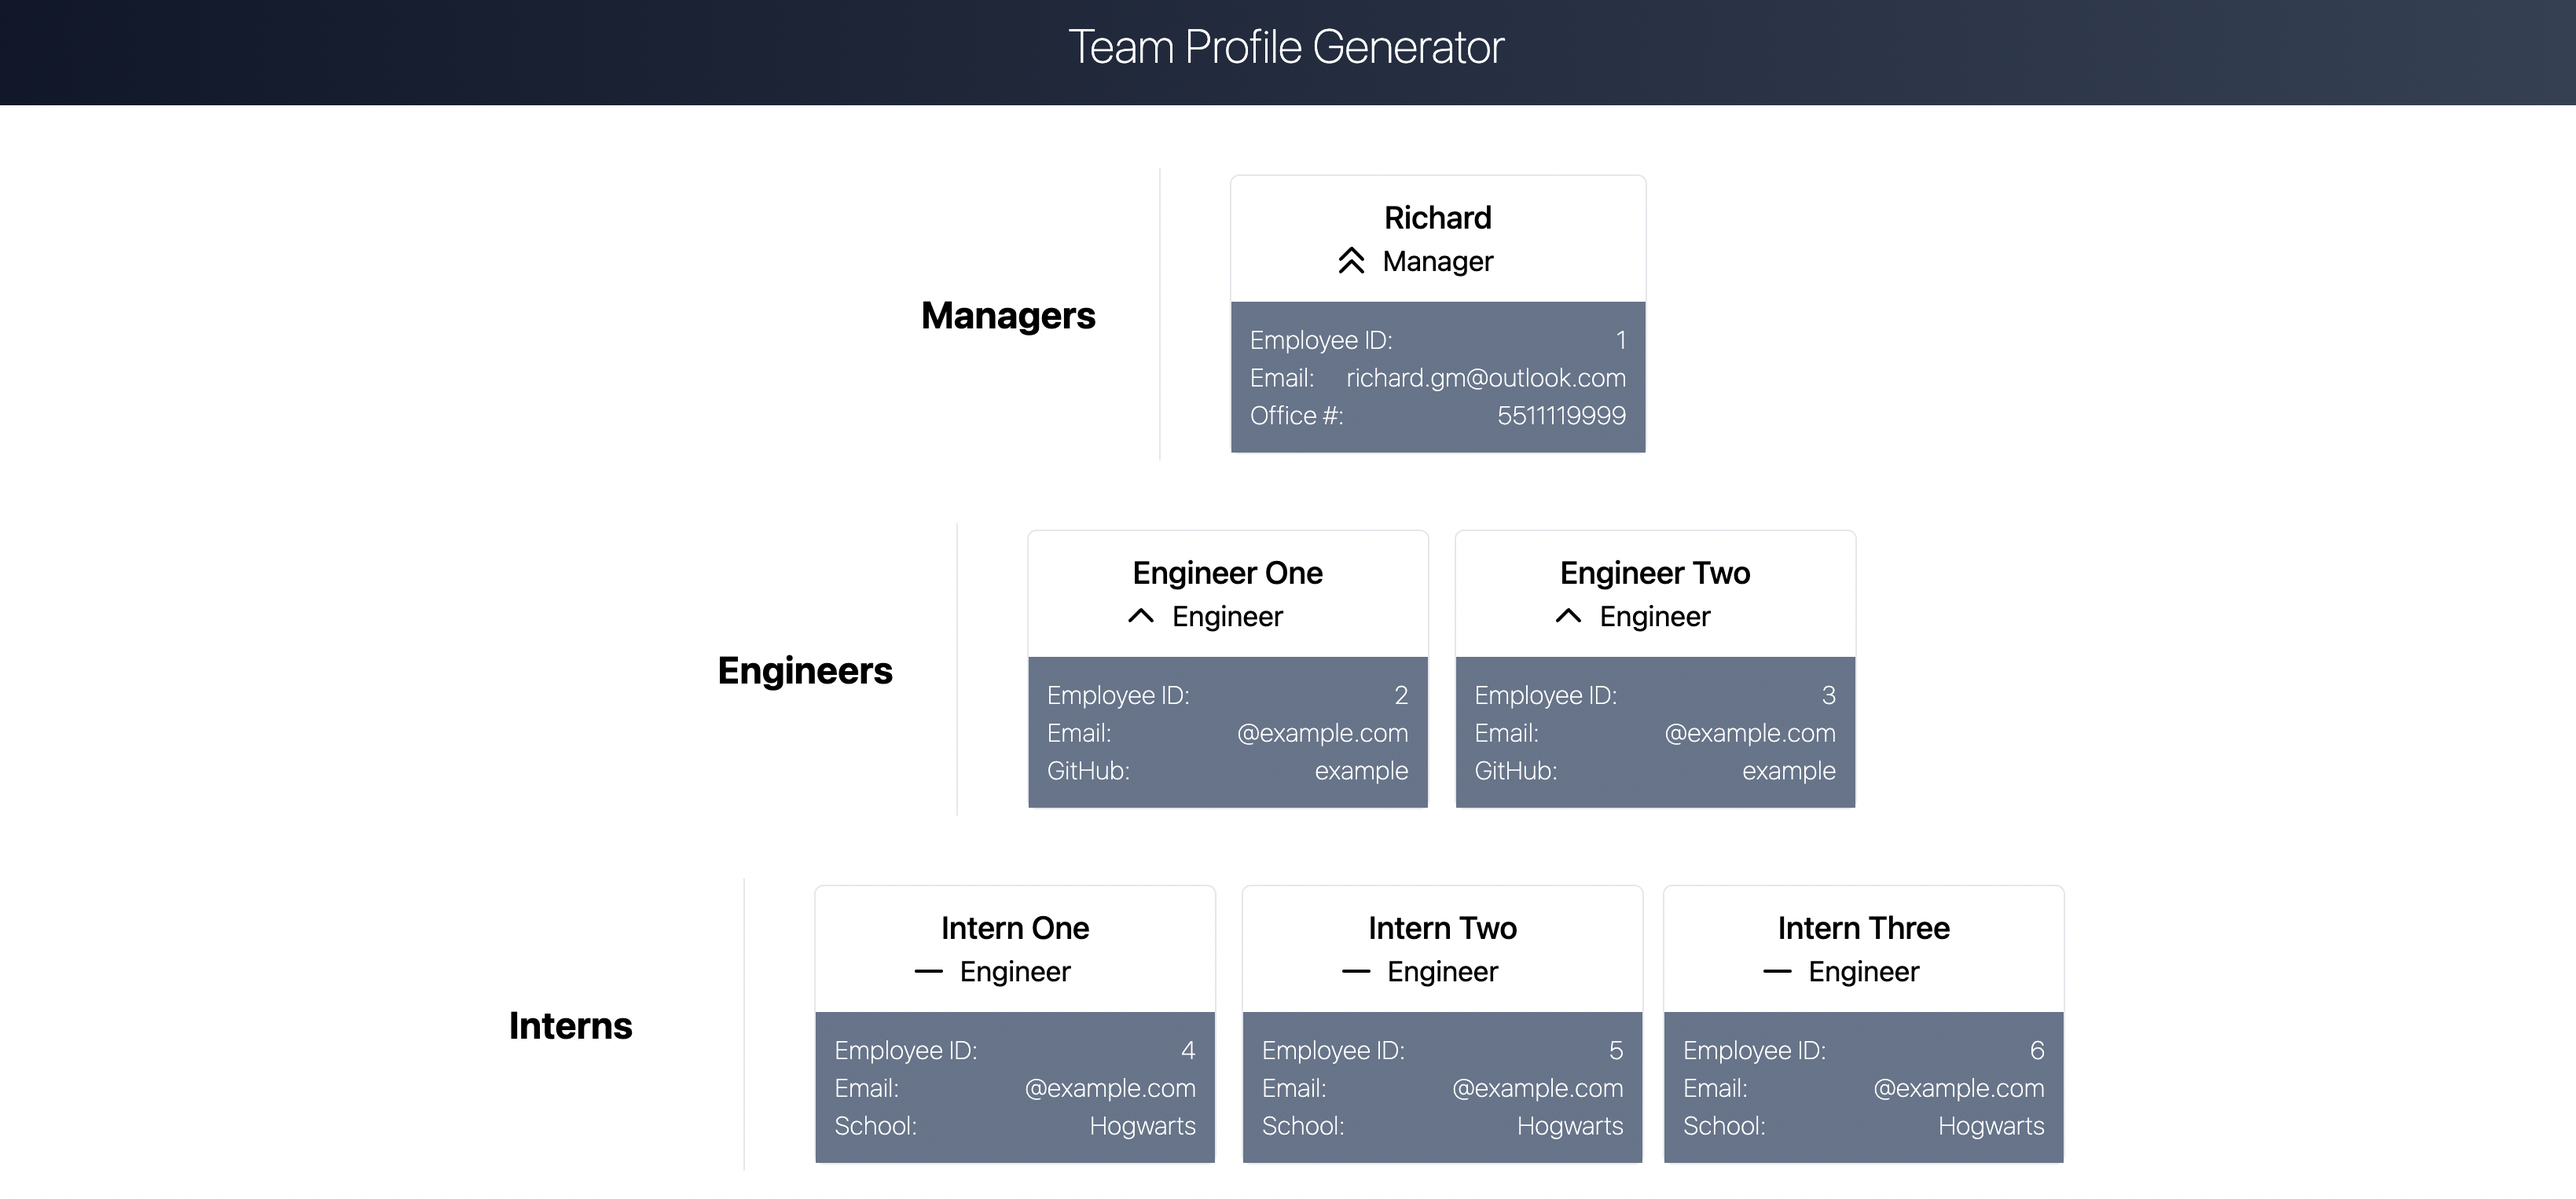
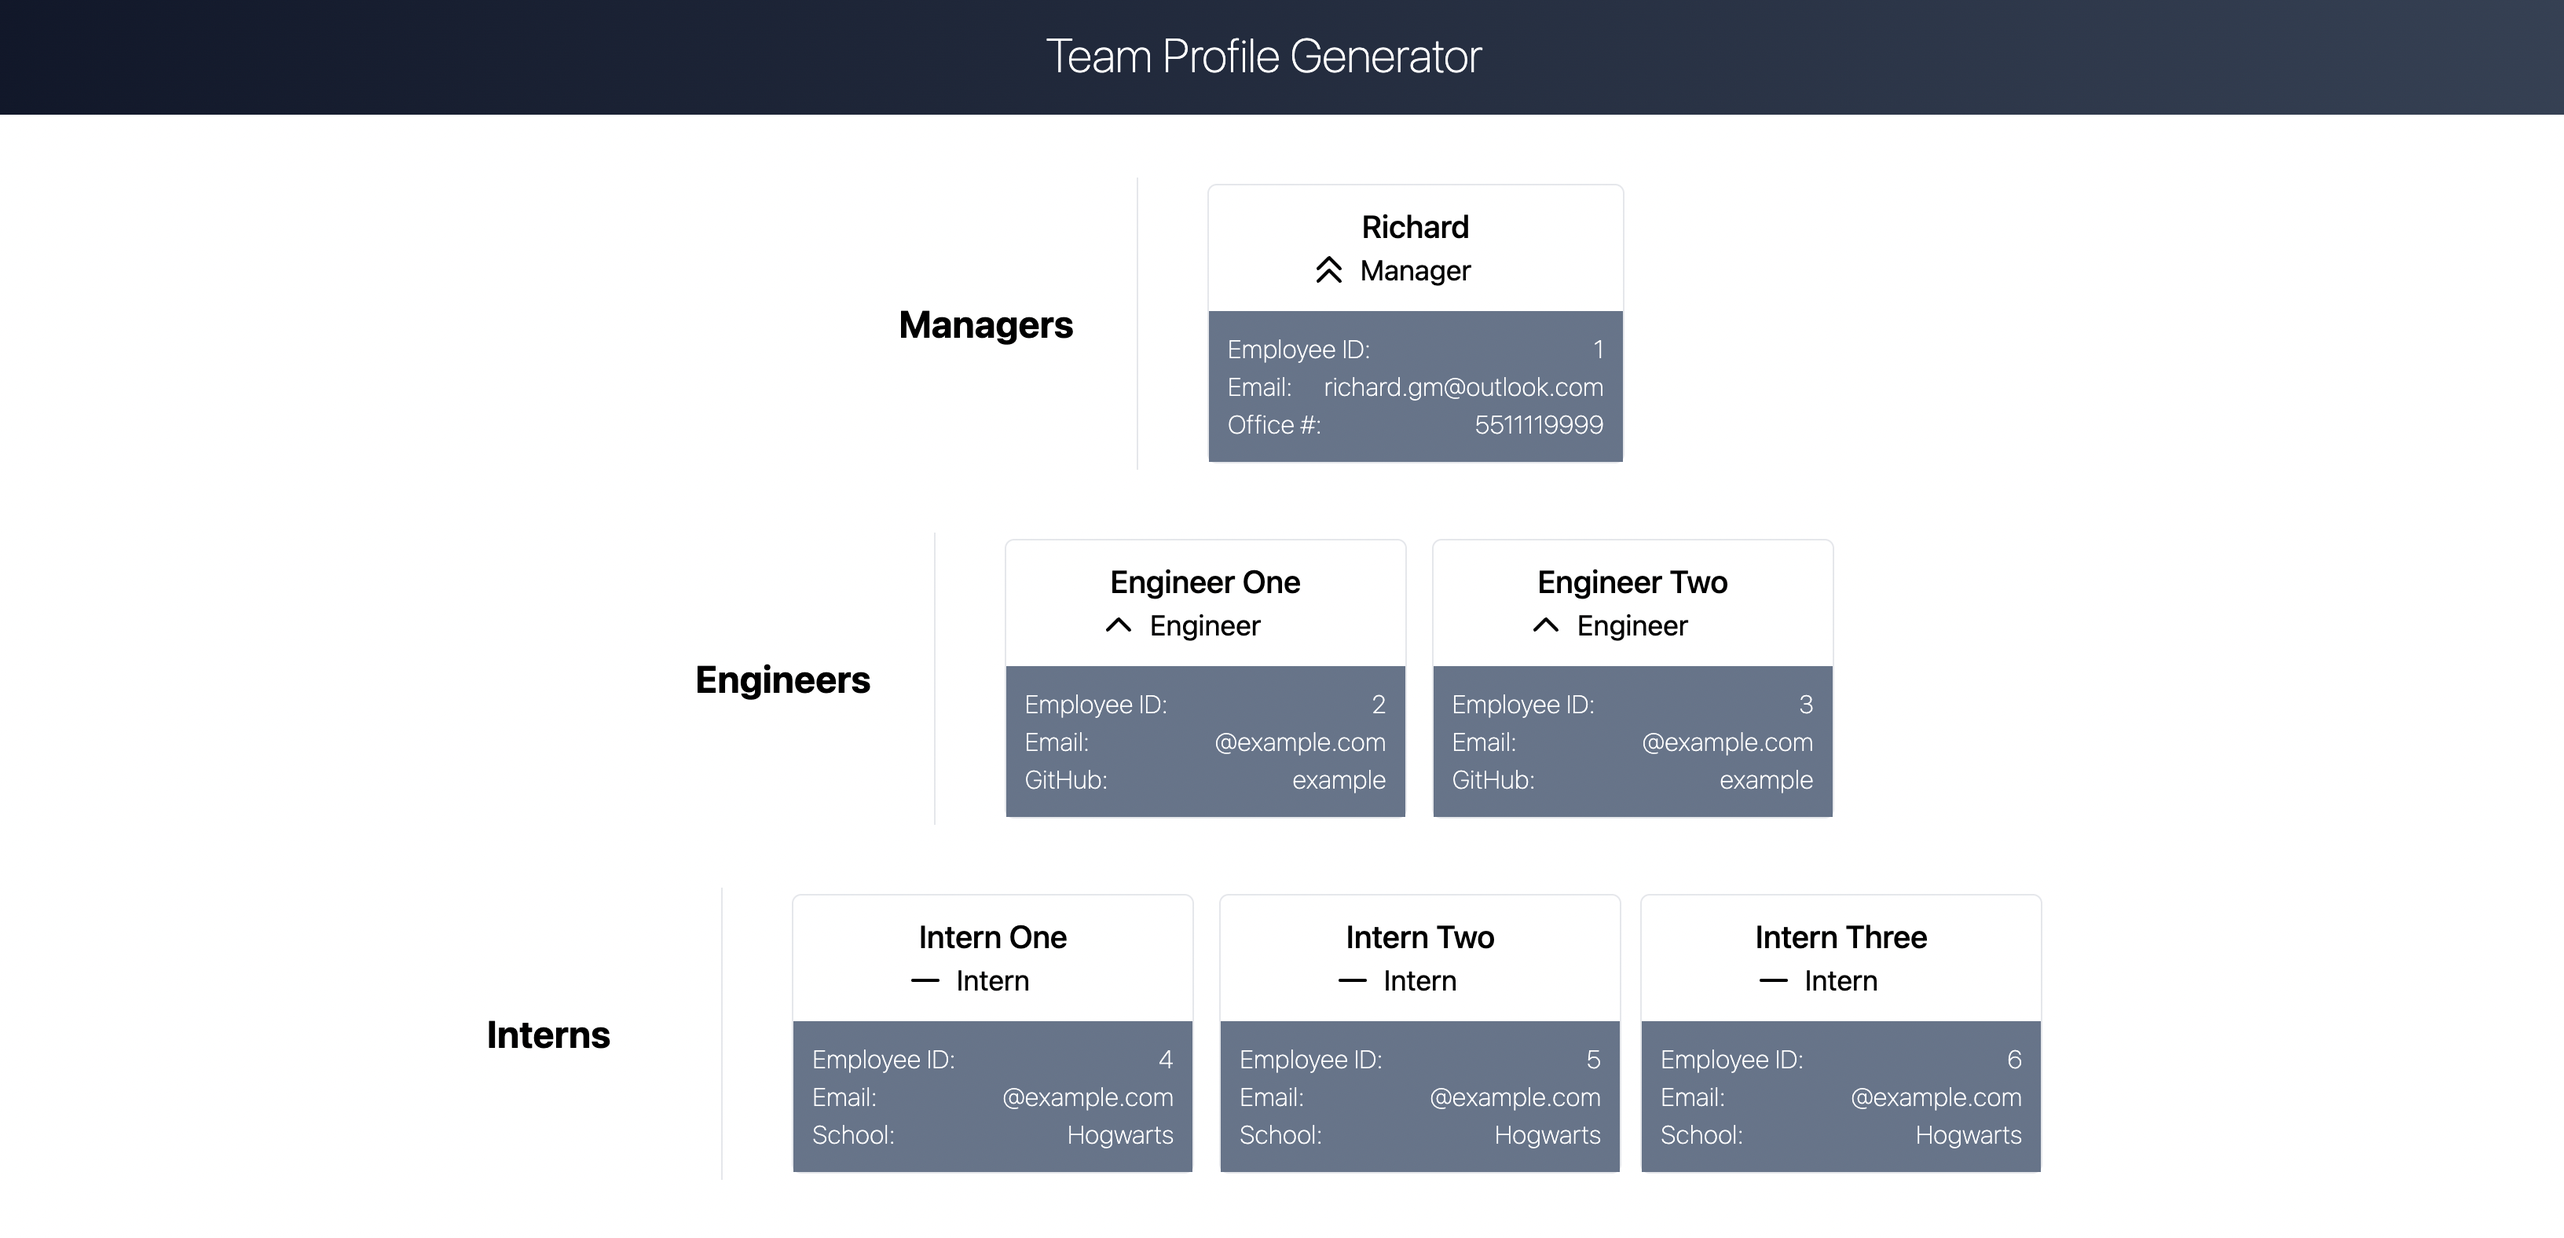
fixed typo on HTML

diff --git a/dist/index.html b/dist/index.html
@@ -149,7 +149,7 @@
             <svg xmlns="http://www.w3.org/2000/svg" class="absolute h-6 w-6 -left-8 top-0.5" fill="none" viewBox="0 0 24 24" stroke="currentColor" stroke-width="2">
                 <path stroke-linecap="round" stroke-linejoin="round" d="M20 12H4" />
             </svg>
-            <p class="text-lg">Engineer</p>
+            <p class="text-lg">Intern</p>
         </div>
     </div>
     <div class="flex flex-col p-3 bg-slate-500 text-white font-extralight transition group-hover:bg-blue-600">
@@ -175,7 +175,7 @@
             <svg xmlns="http://www.w3.org/2000/svg" class="absolute h-6 w-6 -left-8 top-0.5" fill="none" viewBox="0 0 24 24" stroke="currentColor" stroke-width="2">
                 <path stroke-linecap="round" stroke-linejoin="round" d="M20 12H4" />
             </svg>
-            <p class="text-lg">Engineer</p>
+            <p class="text-lg">Intern</p>
         </div>
     </div>
     <div class="flex flex-col p-3 bg-slate-500 text-white font-extralight transition group-hover:bg-blue-600">
@@ -201,7 +201,7 @@
             <svg xmlns="http://www.w3.org/2000/svg" class="absolute h-6 w-6 -left-8 top-0.5" fill="none" viewBox="0 0 24 24" stroke="currentColor" stroke-width="2">
                 <path stroke-linecap="round" stroke-linejoin="round" d="M20 12H4" />
             </svg>
-            <p class="text-lg">Engineer</p>
+            <p class="text-lg">Intern</p>
         </div>
     </div>
     <div class="flex flex-col p-3 bg-slate-500 text-white font-extralight transition group-hover:bg-blue-600">

diff --git a/src/generateIntern.js b/src/generateIntern.js
@@ -7,7 +7,7 @@ return `
             <svg xmlns="http://www.w3.org/2000/svg" class="absolute h-6 w-6 -left-8 top-0.5" fill="none" viewBox="0 0 24 24" stroke="currentColor" stroke-width="2">
                 <path stroke-linecap="round" stroke-linejoin="round" d="M20 12H4" />
             </svg>
-            <p class="text-lg">Engineer</p>
+            <p class="text-lg">Intern</p>
         </div>
     </div>
     <div class="flex flex-col p-3 bg-slate-500 text-white font-extralight transition group-hover:bg-blue-600">
